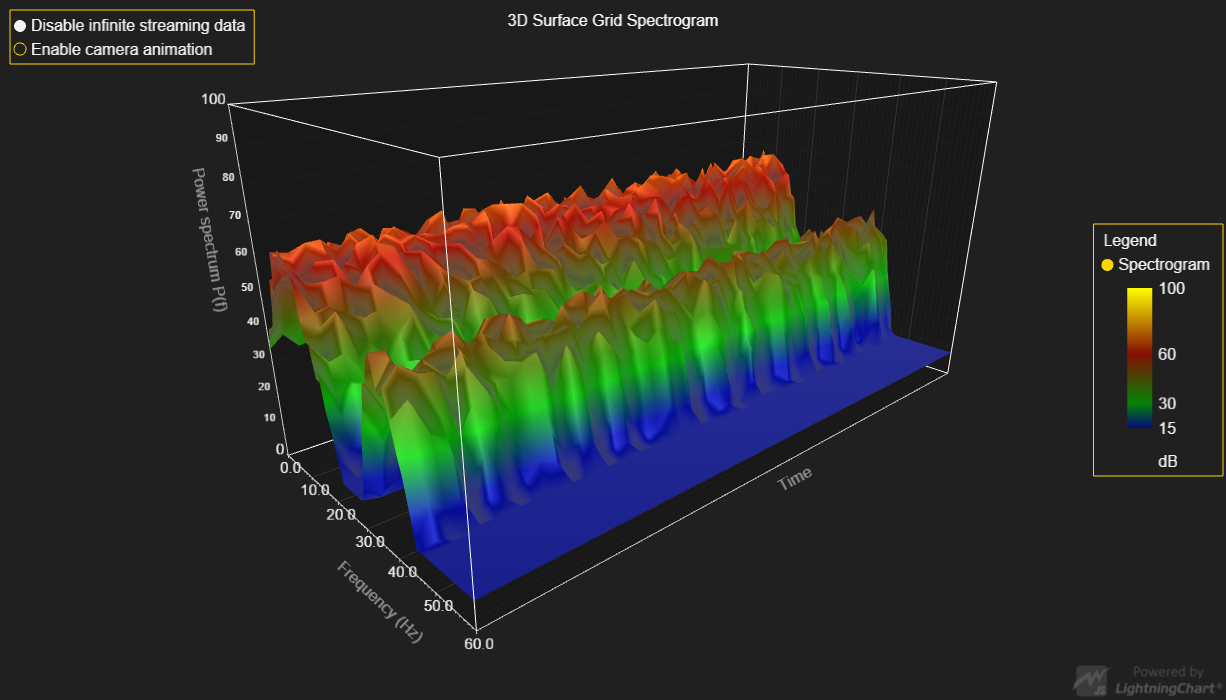
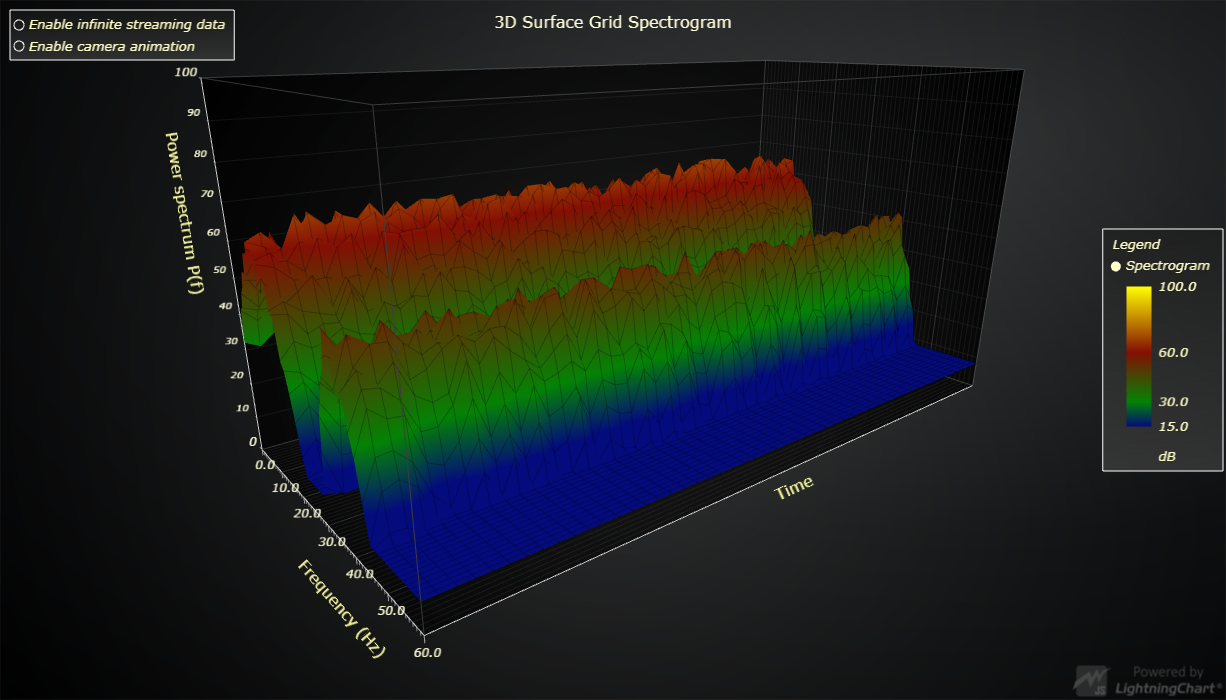
Update LCJS version

diff --git a/src/index.js b/src/index.js
@@ -17,6 +17,7 @@ const {
     UIOrigins,
     UILayoutBuilders,
     UIBackgrounds,
+    SolidFill,
     Themes
 } = lcjs
 
@@ -48,7 +49,7 @@ const paletteFill = new PalettedFill( { lut, lookUpProperty: 'y' } )
 
 // Create Chart3D and configure Axes.
 const chart3D = lightningChart().Chart3D({
-    // theme: Themes.dark
+    // theme: Themes.darkGold
 })
     .setTitle( '3D Surface Grid Spectrogram' )
     .setBoundingBox( { x: 1, y: 1, z: 2 } )
@@ -78,10 +79,17 @@ const surfaceGridSeries = chart3D.addSurfaceSeries( {
     pixelate: true
 } )
     .setFillStyle( paletteFill )
+    .setWireframeStyle(new SolidFill({ color: ColorRGBA(0, 0, 0, 64) }))
     .setName('Spectrogram')
 
 // Add LegendBox to chart.
-const legend = chart3D.addLegendBox().add(chart3D)
+const legend = chart3D.addLegendBox()
+    // Dispose example UI elements automatically if they take too much space. This is to avoid bad UI on mobile / etc. devices.
+    .setAutoDispose({
+        type: 'max-width',
+        maxWidth: 0.30,
+    })
+    .add(chart3D)
 
 
 // Setup data streaming.
@@ -142,6 +150,11 @@ group
     .setOrigin( UIOrigins.LeftTop )
     .setMargin( 10 )
     .setPadding( 4 )
+    // Dispose example UI elements automatically if they take too much space. This is to avoid bad UI on mobile / etc. devices.
+    .setAutoDispose({
+        type: 'max-height',
+        maxHeight: 0.30,
+    })
 
 // Add UI control for toggling between infinite streaming data and static data amount.
 const handleStreamingToggled = ( state ) => {

diff --git a/webpack.config.js b/webpack.config.js
@@ -69,7 +69,8 @@ module.exports = {
         }),
         new CopyWebpackPlugin({
             patterns: [
-                { from: './assets/**/*', to: './examples/assets', flatten: true, noErrorOnMissing: true }
+                { from: './assets/**/*', to: './examples/assets', flatten: true, noErrorOnMissing: true },
+                { from: './node_modules/@arction/lcjs/dist/resources', to: 'resources', noErrorOnMissing: true },
             ]
         })
     ]

diff --git a/README.md b/README.md
@@ -55,8 +55,8 @@ Direct developer email support can be purchased through a [Support Plan][4] or b
 © Arction Ltd 2009-2020. All rights reserved.
 
 
-[3D chart]: https://www.arction.com/lightningchart-js-api-documentation/v3.0.1/classes/chart3d.html
-[3D surface grid series]: https://www.arction.com/lightningchart-js-api-documentation/v3.0.1/classes/surfacegridseries3d.html
-[Paletted Fill Style]: https://www.arction.com/lightningchart-js-api-documentation/v3.0.1/classes/palettedfill.html
-[LUT]: https://www.arction.com/lightningchart-js-api-documentation/v3.0.1/classes/lut.html
+[3D chart]: https://www.arction.com/lightningchart-js-api-documentation/v3.1.0/classes/chart3d.html
+[3D surface grid series]: https://www.arction.com/lightningchart-js-api-documentation/v3.1.0/classes/surfacegridseries3d.html
+[Paletted Fill Style]: https://www.arction.com/lightningchart-js-api-documentation/v3.1.0/classes/palettedfill.html
+[LUT]: https://www.arction.com/lightningchart-js-api-documentation/v3.1.0/classes/lut.html
 
